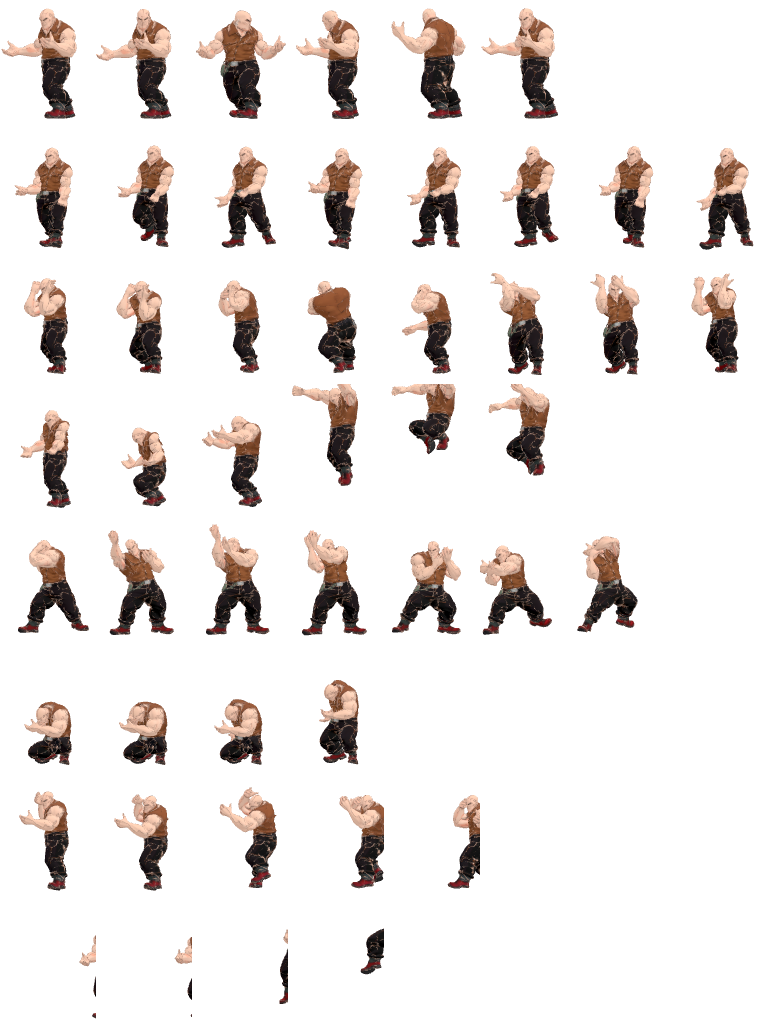
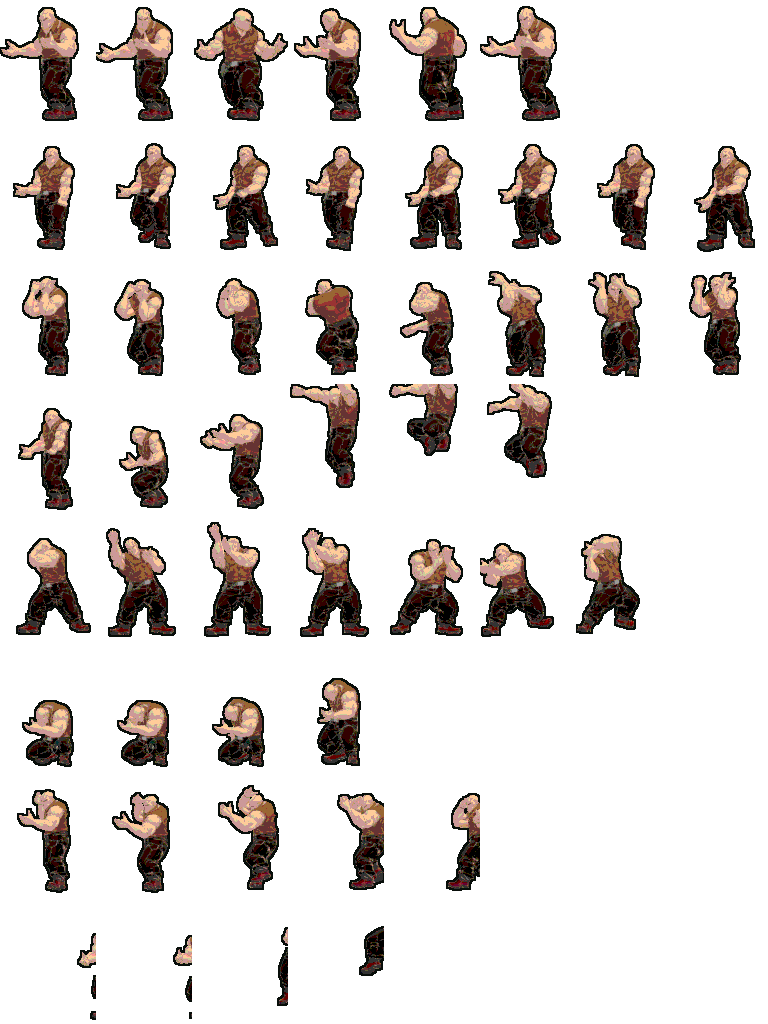
feat(crude-buster): sanat butunlugu gecisi - kadro dunyaya oturdu
Sorun (kullanici geri bildirimi): pürüzsüz 3B render karakterler
chunky-piksel + CRT arka planla catisiyor, "yapistirilmis" duruyor.

Cozum (render harness post-fx, Meshy maliyeti yok):
- fosfor-noir isik: koyu ambiyans + sicak key + arkadan fosfor rim
- postProcess: sert alpha kenar + posterize (6 kademe) + 2px koyu kontur
- 8 karakterin hepsi yeniden render; in-game boyut buyutuldu (presence)

Artik dovuscular pixel-art gibi okunuyor ve dunyaya ait (SoR dokusu).
Surum: crude-buster.js v9, tum sheet'ler +1, SW convivium-v240.

diff --git a/assets/js/crude-buster.js b/assets/js/crude-buster.js
@@ -1291,14 +1291,14 @@ window.CrudeBuster = (function () {
   };
   // pal -> sprite sheet. Yeni karakter eklemek = burada bir satir + PNG.
   var SHEET_DEFS = [
-    { pal: 'ebinal',     src: '/assets/img/crude/ebinal-sheet.png?v=2',      drawH: 48, footPad: 2 },
-    { pal: 'debinal',    src: '/assets/img/crude/debinal-sheet.png?v=1',     drawH: 46, footPad: 2 },
-    { pal: 'punk',       src: '/assets/img/crude/punk-sheet.png?v=1',        drawH: 46, footPad: 2 },
-    { pal: 'knife',      src: '/assets/img/crude/knife-sheet.png?v=1',       drawH: 46, footPad: 2 },
-    { pal: 'brute',      src: '/assets/img/crude/brute-sheet.png?v=1',       drawH: 46, footPad: 2 },
-    { pal: 'thrower',    src: '/assets/img/crude/thrower-sheet.png?v=1',     drawH: 46, footPad: 2 },
-    { pal: 'bruteBoss',  src: '/assets/img/crude/bruteBoss-sheet.png?v=1',   drawH: 46, footPad: 2 },
-    { pal: 'cyborgBoss', src: '/assets/img/crude/cyborgBoss-sheet.png?v=1',  drawH: 46, footPad: 2 }
+    { pal: 'ebinal',     src: '/assets/img/crude/ebinal-sheet.png?v=3',      drawH: 58, footPad: 3 },
+    { pal: 'debinal',    src: '/assets/img/crude/debinal-sheet.png?v=2',     drawH: 56, footPad: 3 },
+    { pal: 'punk',       src: '/assets/img/crude/punk-sheet.png?v=2',        drawH: 54, footPad: 3 },
+    { pal: 'knife',      src: '/assets/img/crude/knife-sheet.png?v=2',       drawH: 54, footPad: 3 },
+    { pal: 'brute',      src: '/assets/img/crude/brute-sheet.png?v=2',       drawH: 50, footPad: 3 },
+    { pal: 'thrower',    src: '/assets/img/crude/thrower-sheet.png?v=2',     drawH: 52, footPad: 3 },
+    { pal: 'bruteBoss',  src: '/assets/img/crude/bruteBoss-sheet.png?v=2',   drawH: 48, footPad: 3 },
+    { pal: 'cyborgBoss', src: '/assets/img/crude/cyborgBoss-sheet.png?v=2',  drawH: 48, footPad: 3 }
   ];
   var SHEETS = {};   // pal -> { img, ready, drawH, footPad }
   function loadSheets() {

diff --git a/service-worker.js b/service-worker.js
@@ -3,7 +3,7 @@
  * Offline destek ve cache yonetimi
  */
 
-const CACHE_NAME = 'convivium-v239';
+const CACHE_NAME = 'convivium-v240';
 const OFFLINE_URL = '/offline.html';
 
 // Cache'lenecek dosyalar
@@ -119,15 +119,15 @@ const PRECACHE_ASSETS = [
   '/assets/js/auth-gate.js?v=22',
   '/assets/css/crude-buster.css?v=2',
   '/assets/js/crude-buster-net.js?v=2',
-  '/assets/js/crude-buster.js?v=8',
-  '/assets/img/crude/ebinal-sheet.png?v=2',
-  '/assets/img/crude/debinal-sheet.png?v=1',
-  '/assets/img/crude/punk-sheet.png?v=1',
-  '/assets/img/crude/knife-sheet.png?v=1',
-  '/assets/img/crude/brute-sheet.png?v=1',
-  '/assets/img/crude/thrower-sheet.png?v=1',
-  '/assets/img/crude/bruteBoss-sheet.png?v=1',
-  '/assets/img/crude/cyborgBoss-sheet.png?v=1',
+  '/assets/js/crude-buster.js?v=9',
+  '/assets/img/crude/ebinal-sheet.png?v=3',
+  '/assets/img/crude/debinal-sheet.png?v=2',
+  '/assets/img/crude/punk-sheet.png?v=2',
+  '/assets/img/crude/knife-sheet.png?v=2',
+  '/assets/img/crude/brute-sheet.png?v=2',
+  '/assets/img/crude/thrower-sheet.png?v=2',
+  '/assets/img/crude/bruteBoss-sheet.png?v=2',
+  '/assets/img/crude/cyborgBoss-sheet.png?v=2',
   '/assets/js/dart-board-svg.js?v=3',
   '/assets/js/dart-online.js?v=2',
   '/assets/js/dart-atc.js?v=4',

diff --git a/pages/changelog.html b/pages/changelog.html
@@ -158,6 +158,18 @@
 
         <article class="entry">
             <time datetime="2026-07-25">2026-07-25</time><span class="tag">oyun</span>
+            <h2>Crude Buster: sanat butunlugu gecisi (kadro dunyaya oturdu)</h2>
+            <p>Karakterler "yapistirilmis pürüzsüz 3B" gibi duruyordu &mdash;
+            chunky-piksel + CRT dunyayla catisiyordu. Tum kadro yeniden render
+            edildi: <strong>koyu kontur</strong> (siluet tanimi), <strong>posterize
+            palet</strong> (el-yapimi pixel-art hissi), <strong>fosfor-noir isik +
+            arka rim</strong> (dramatik kontrast, karakterler pop yapar) ve daha
+            baskin boyut. Artik dovuscular dunyaya ait ve okunuyor &mdash; Streets
+            of Rage dokusu. Meshy maliyeti yok (mevcut 3B modellerden yeniden render).</p>
+        </article>
+
+        <article class="entry">
+            <time datetime="2026-07-25">2026-07-25</time><span class="tag">oyun</span>
             <h2>Crude Buster: tum kadro elle render 3D karakter (Faz 1 tamam)</h2>
             <p>Kutu tavani kirildi. Artik <strong>ekrandaki her dovuscu</strong>
             &mdash; kahramanlar (E.Binal, De.Binal) ve <strong>tum dusmanlar</strong>

diff --git a/games/crude-buster.html b/games/crude-buster.html
@@ -177,7 +177,7 @@
   </div>
 
   <script src="/assets/js/crude-buster-net.js?v=2"></script>
-  <script src="/assets/js/crude-buster.js?v=8"></script>
+  <script src="/assets/js/crude-buster.js?v=9"></script>
   <script>
     (function () {
       'use strict';
